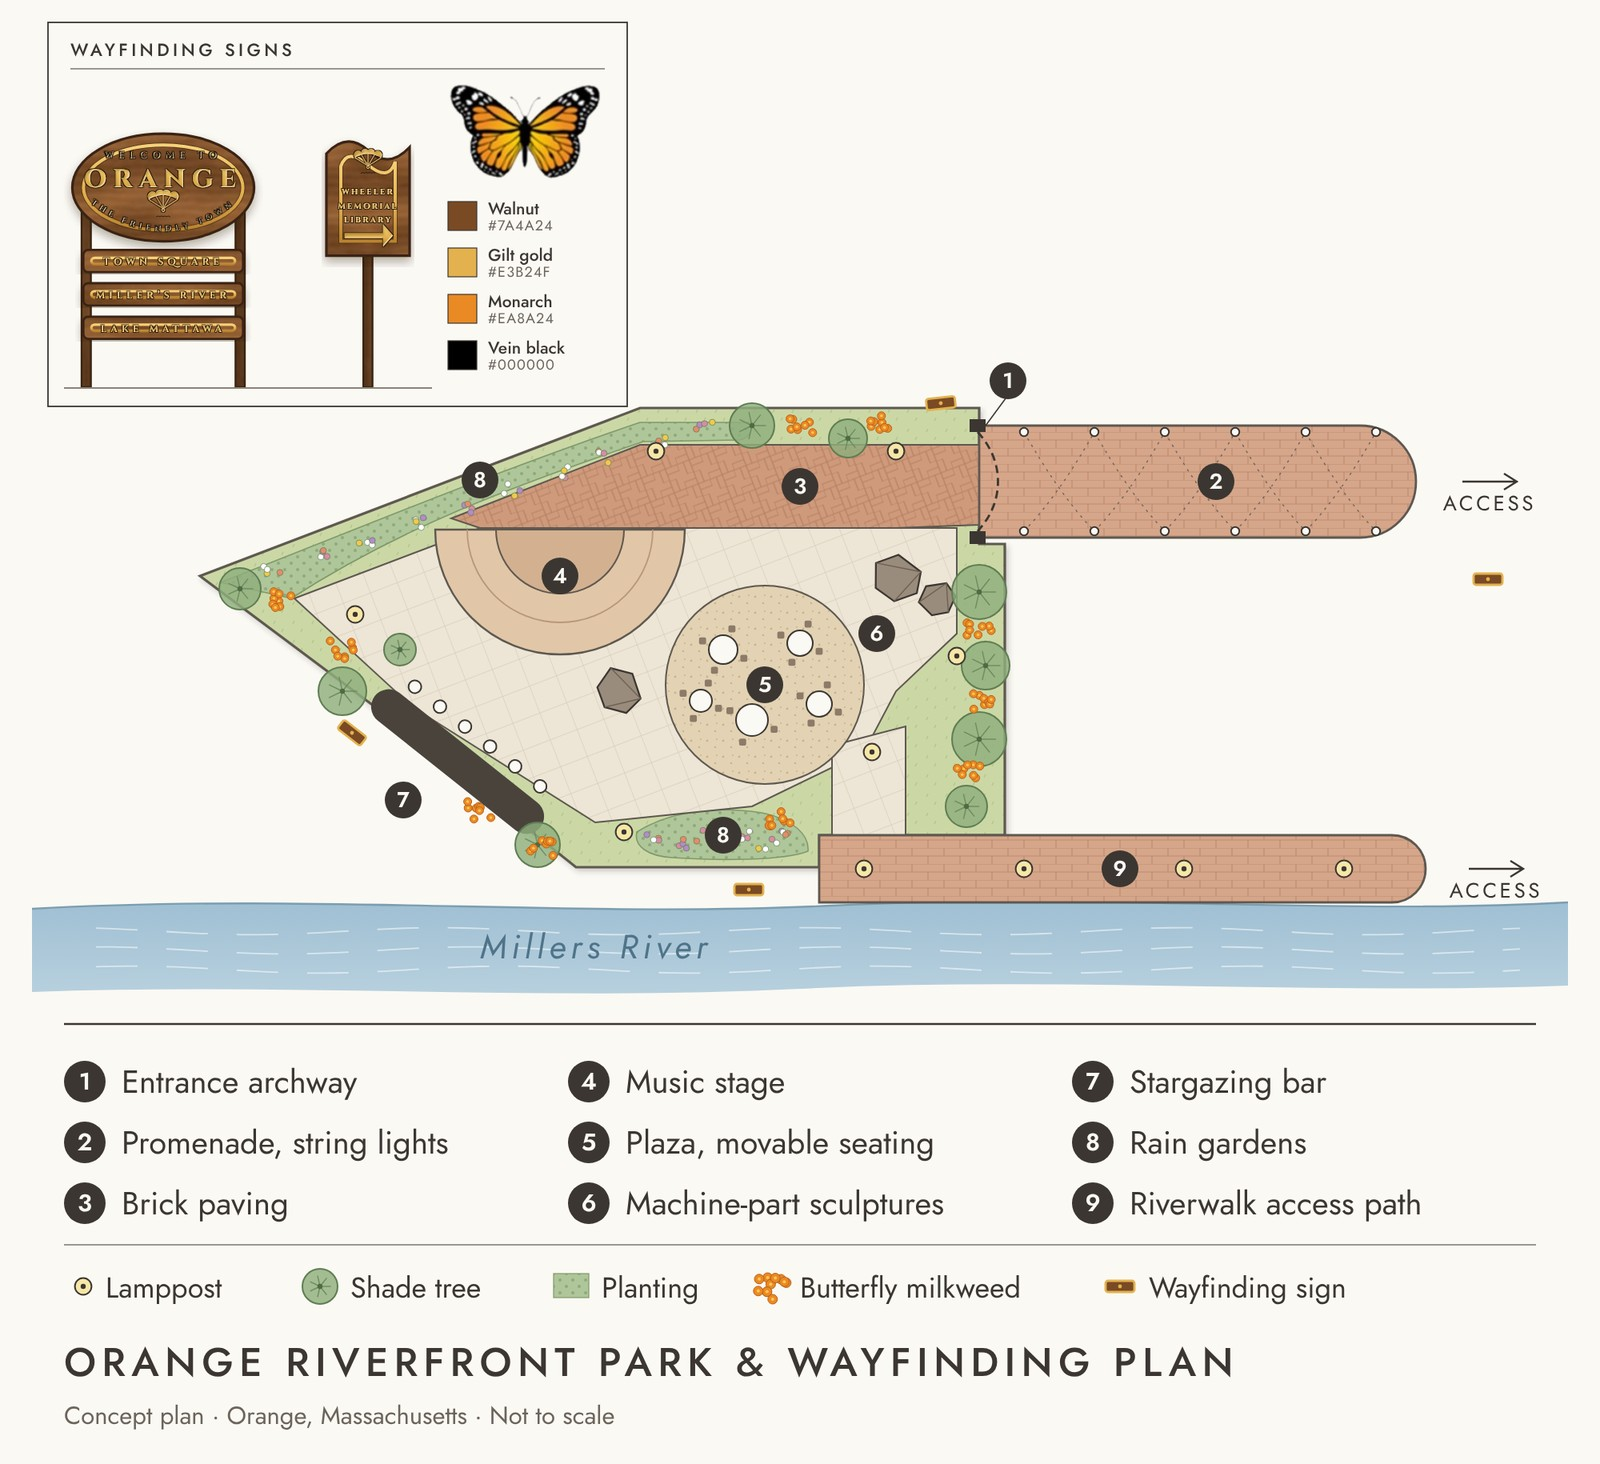
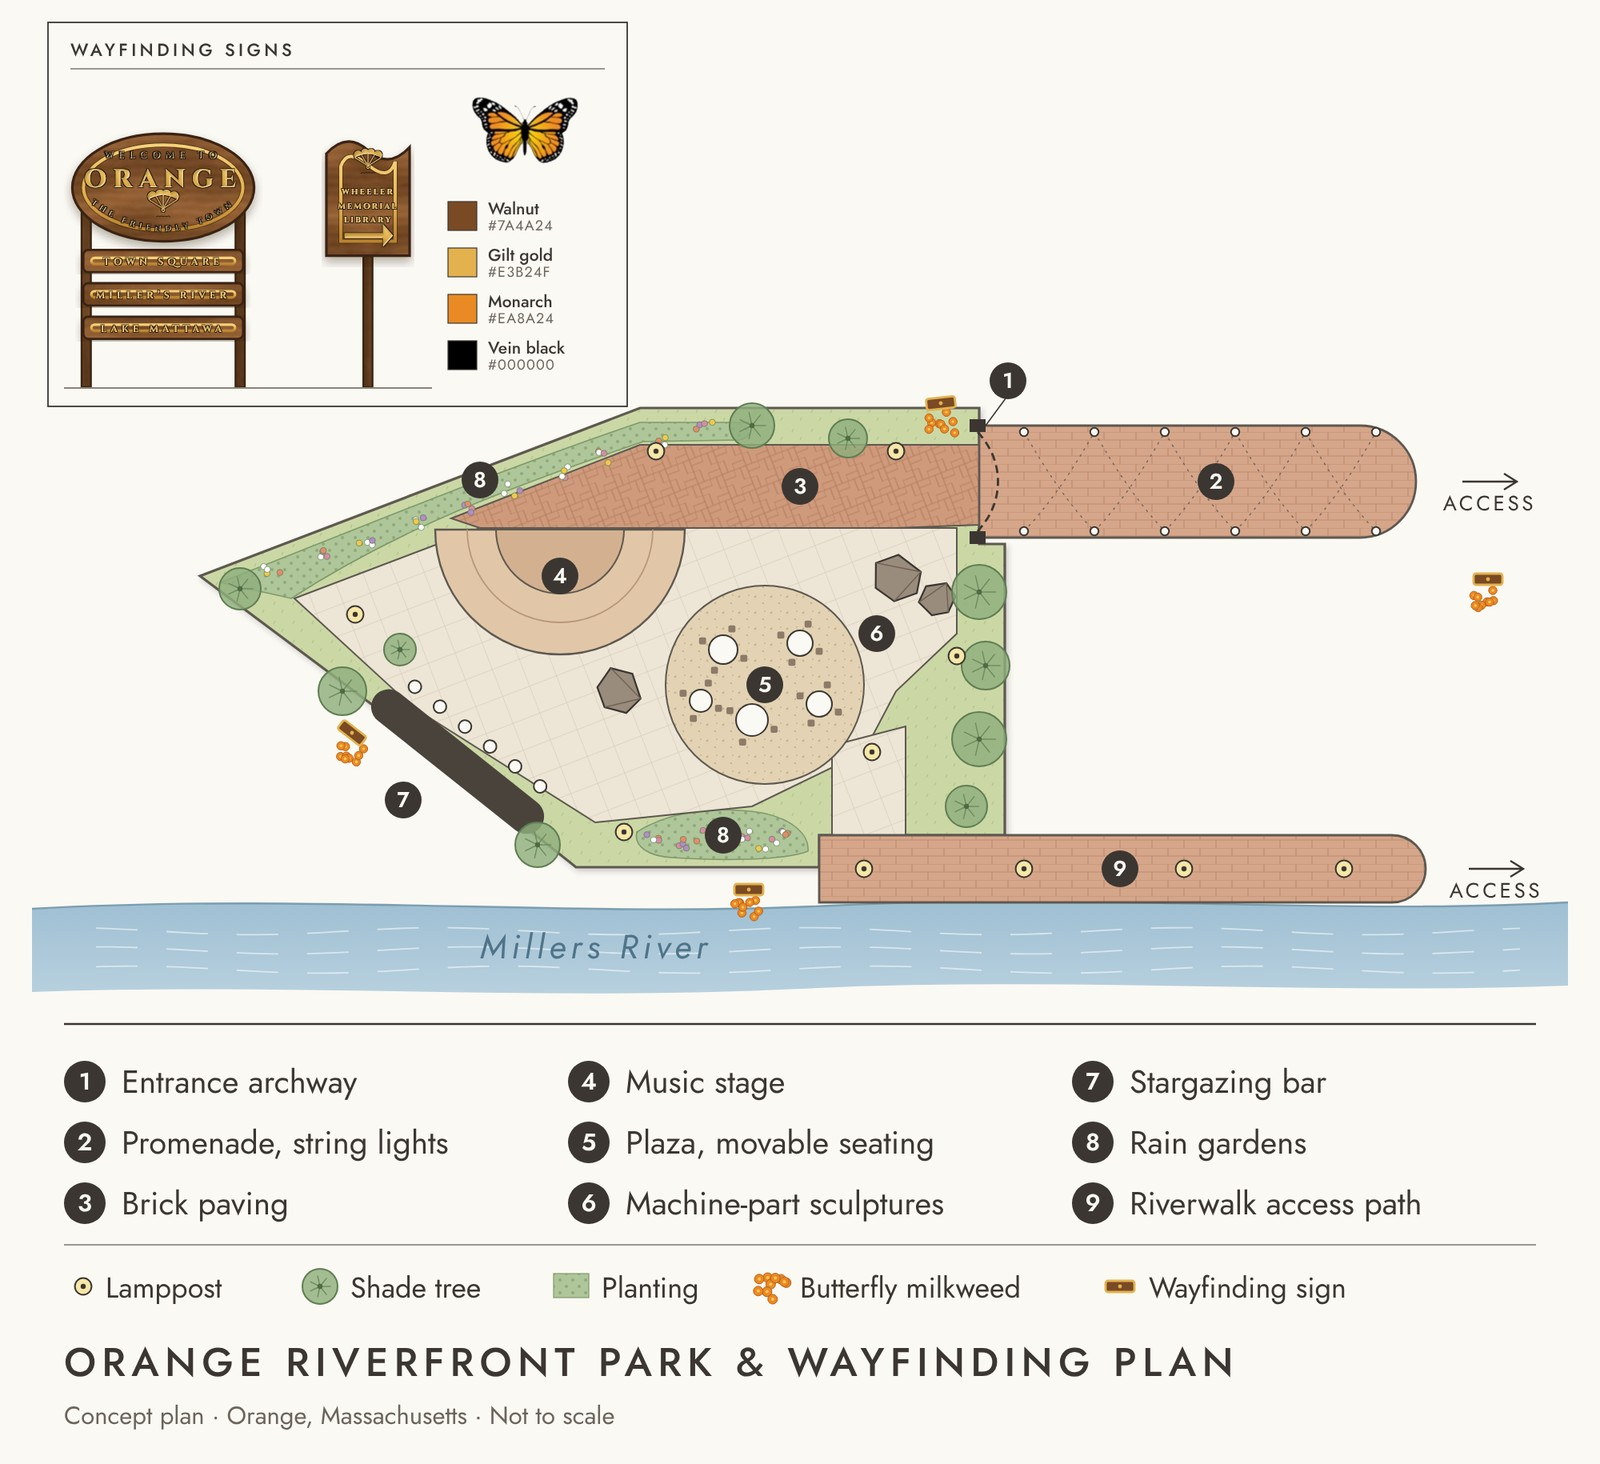
Milkweed at each sign, smaller monarch

diff --git a/index.html b/index.html
@@ -416,7 +416,7 @@ footer { text-align: center; margin-top: 4rem; font-size: 0.78rem; letter-spacin
         </div>
       </li>
       <li class="project" id="work-orange" data-cats="strategy identity print">
-        <div class="shots" style="--n: 1"><img src="work/kth/orange-downtown-plan.jpg" alt="Orange Riverfront Park and Wayfinding Plan: in the top corner, carved walnut signs with gilded lettering (the Welcome to Orange gateway sign and the Wheeler Memorial Library directional sign), a monarch and the palette; below, the concept site plan on the Millers River with wayfinding signs at each entrance, butterfly milkweed in the lawns, wildflowers in the rain gardens, an entrance archway and string-lit promenade, brick paving, a music stage, a plaza with movable seating, machine-part sculptures, a stargazing bar, rain gardens and a riverwalk" loading="lazy"></div>
+        <div class="shots" style="--n: 1"><img src="work/kth/orange-downtown-plan.jpg" alt="Orange Riverfront Park and Wayfinding Plan: in the top corner, carved walnut signs with gilded lettering (the Welcome to Orange gateway sign and the Wheeler Memorial Library directional sign), a monarch and the palette; below, the concept site plan on the Millers River with a wayfinding sign planted with butterfly milkweed at each entrance, wildflowers in the rain gardens, an entrance archway and string-lit promenade, brick paving, a music stage, a plaza with movable seating, machine-part sculptures, a stargazing bar, rain gardens and a riverwalk" loading="lazy"></div>
         <div class="info">
           <p class="kind">Community research · Wayfinding · Placemaking</p>
           <h3>Making Downtown Orange a Gathering Place</h3>
